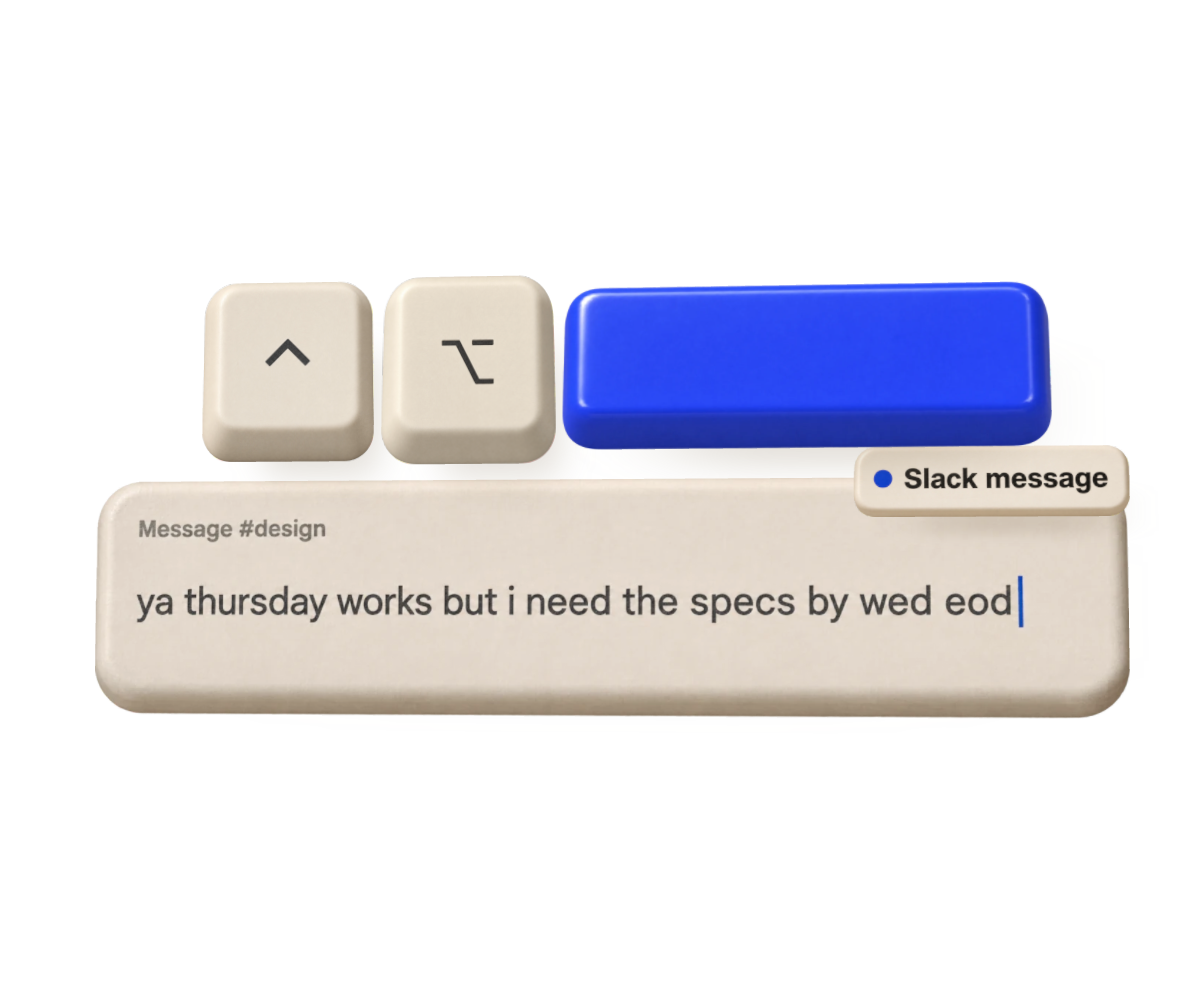
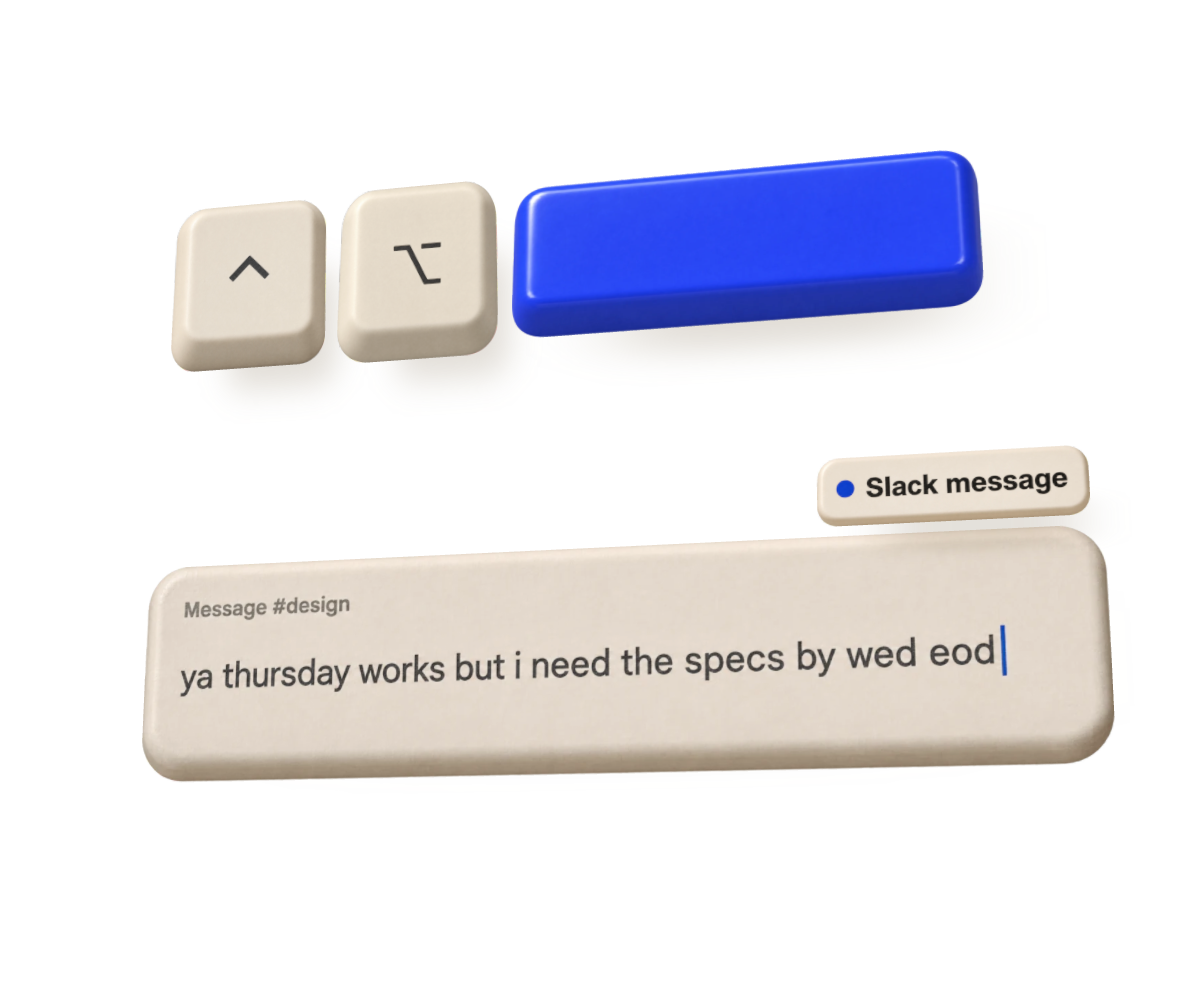
Carousel: real depth, fuller compositions, scene fixes; hero line in three lines
The piece scenes are seen from a true three-quarter view with the layers
spread further apart in depth, so the perspective and cast shadows read, and
each composition now uses the card's height. English coach: the draft sits
above the tray without covering it, and the token note leaves the slide (the
disclosure moves into the privacy small print). Local model: the back panel
is the real Engine card with content. Dictation: the cursor follows
'running' and the wave sits higher. Rendered piece URLs carry a version so
browsers fetch updated renders. The hero's small print breaks into three
lines so it stays clear of the hero image.

diff --git a/site/js/layers.js b/site/js/layers.js
@@ -7,6 +7,7 @@ import * as THREE from "https://cdn.jsdelivr.net/npm/three@0.160.0/build/three.m
 const C = { ink: "#171714", paper: "#F3EBDD", card: "#F5EEE2", strip: "#ECE4D5", tray: "#EADFCB",
   cobalt: "#3045FF", acid: "#E8F449", tomato: "#F0543D", mute: "#8A8478", red: "#B3261E", green: "#1E6B3A",
   redBg: "rgba(240,84,61,.13)", greenBg: "rgba(30,107,58,.11)" };
+const ASSET_V = "2"; // bump when the rendered pieces change, so browsers fetch the new files
 const FONT = 'Arial, "Helvetica Neue", Helvetica, sans-serif';
 const PX = 100;           // drawing units per world unit
 const SCALE = 2.6;        // canvas pixels per drawing unit
@@ -28,7 +29,7 @@ function wrap(ctx, s, x, y, maxW, { size = 22, lead = 1.4, color = C.ink, weight
     if (ctx.measureText(t).width > maxW && line) { ctx.fillText(line, x, yy); line = word; yy += size * lead; } else line = t;
   }
   if (line) ctx.fillText(line, x, yy);
-  return yy;
+  return { y: yy, x: x + ctx.measureText(line).width }; // where the text ends
 }
 // Runs of [text, kind] where kind is "", "del" (struck, red) or "ins" (green), wrapped like a paragraph.
 function diff(ctx, runs, x, y, maxW, { size = 22, lead = 1.5 } = {}) {
@@ -143,19 +144,19 @@ const SCENES = {
       draw: (c) => { text(c, "Your draft", 26, 40, { size: 16, weight: 700, color: C.mute });
         let x = 26; x += underline(c, "If you will send", x, 92, 24, C.tomato); x += text(c, " me the file ", x, 92, { size: 24 });
         x += underline(c, "until tomorrow", x, 92, 24, C.tomato); x += text(c, ", I will check it and ", x, 92, { size: 24 });
-        underline(c, "make you a feedback", x, 92, 24, C.tomato); } }), -0.3, 2.55, 0.6, "draft"));
+        underline(c, "make you a feedback", x, 92, 24, C.tomato); } }), 0.2, 3.5, 0.9, "draft"));
     root.add(place(tile(renderer, { w: 10, h: 3.9, r: 0.3, depth: 0.14, bg: C.tray,
       draw: (c, cw, ch) => { text(c, "English coach", 30, 52, { size: 24, weight: 700 }); text(c, "3 notes on your draft", 210, 52, { size: 21, color: C.mute });
         text(c, "Conditionals", 30, ch - 34, { size: 20, weight: 700 });
-        text(c, "A future condition takes the present after “if”.", 170, ch - 34, { size: 20, color: "#4A463F" }); } }), 0, -0.55, 0.3, "tray"));
+        text(c, "A future condition takes the present after “if”.", 170, ch - 34, { size: 20, color: "#4A463F" }); } }), 0, -0.85, 0, "tray"));
     const fix = (a, b, sel) => tile(renderer, { w: 1.0 + measure(a, 22, 400) + measure(b, 22, 700), h: 0.66, r: 0.18, depth: 0.1, bg: C.card,
       outline: sel ? { width: 4, color: C.ink } : { width: 2, color: "#E3DED4" },
       draw: (c, cw, ch) => { const y = ch / 2 + 8; const w1 = text(c, a, 22, y, { size: 22, color: C.red });
         c.fillStyle = C.red; c.fillRect(22, y - 7, w1, 2); text(c, "→", 34 + w1, y, { size: 22, color: C.mute });
         text(c, b, 70 + w1, y, { size: 22, weight: 700, color: C.green }); } });
-    root.add(sized(place(fix("If you will send", "If you send", true), -2.4, 0.3, 1.4, "fix1"), 1.2));
-    root.add(sized(place(fix("until tomorrow", "by tomorrow"), 2.9, -0.15, 1.0, "fix2"), 1.2));
-    root.add(sized(place(fix("make you a feedback", "give you feedback"), -0.6, -1.1, 0.85, "fix3"), 1.2));
+    root.add(sized(place(fix("If you will send", "If you send", true), -2.4, 0.05, 1.9, "fix1"), 1.2));
+    root.add(sized(place(fix("until tomorrow", "by tomorrow"), 2.9, -0.45, 1.2, "fix2"), 1.2));
+    root.add(sized(place(fix("make you a feedback", "give you feedback"), -0.6, -1.45, 1.5, "fix3"), 1.2));
     return { bounds: [10.4, 6.6] };
   },
   proofread(renderer, root) {
@@ -167,67 +168,70 @@ const SCENES = {
     const f = (a, b) => tile(renderer, { w: 1.0 + measure(a, 22, 400) + measure(b, 22, 700), h: 0.62, r: 0.18, depth: 0.1, bg: C.card,
       outline: { width: 2, color: "#E3DED4" }, draw: (c, cw, ch) => { const y = ch / 2 + 8; const w1 = text(c, a, 20, y, { size: 22, color: C.red });
         c.fillStyle = C.red; c.fillRect(20, y - 7, w1, 2); text(c, "→", 32 + w1, y, { size: 22, color: C.mute }); text(c, b, 66 + w1, y, { size: 22, weight: 700, color: C.green }); } });
-    root.add(sized(place(f("reveiw", "review"), 3.85, 1.35, 1.0, "fix1"), 1.25));
-    root.add(sized(place(f("tommorow", "tomorrow"), 4.35, 0.25, 1.45, "fix2"), 1.25));
-    root.add(sized(place(f("its", "it's"), 3.55, -0.85, 0.8, "fix3"), 1.25));
+    root.add(sized(place(f("reveiw", "review"), 3.7, 2.0, 1.0, "fix1"), 1.25));
+    root.add(sized(place(f("tommorow", "tomorrow"), 4.3, 0.45, 1.7, "fix2"), 1.25));
+    root.add(sized(place(f("its", "it's"), 3.4, -1.3, 2.3, "fix3"), 1.25));
     return { bounds: [11.8, 5.2] };
   },
   presets(renderer, root) {
     [["Slack message", C.cobalt], ["Polish email", C.ink], ["Proofread", C.green], ["Shorter", C.tomato], ["Friendlier", C.acid]].forEach(([s, d], i) => {
       const sel = i === 0; const t = chip(renderer, s, { dotColor: d, bg: sel ? C.tray : C.card, w: 2.6 });
-      root.add(place(t, -3.3 + (sel ? 0.35 : 0), 1.9 - i * 0.8, sel ? 1.4 : 0.3 + i * 0.05, "chip" + (i + 1)));
+      root.add(place(t, -3.3 + (sel ? 0.35 : 0), 2.4 - i * 0.95, sel ? 1.8 : 0.3 + i * 0.1, "chip" + (i + 1)));
     });
     root.add(place(tile(renderer, { w: 6.2, h: 1.55, r: 0.22, depth: 0.14,
       draw: (c, cw) => { text(c, "Instruction", 30, 44, { size: 18, weight: 700, color: C.mute });
-        wrap(c, "Clear and friendly. Short lines, no corporate filler.", 30, 100, cw - 60, { size: 28 }); } }), 1.4, 1.45, 0.6, "instruction"));
+        wrap(c, "Clear and friendly. Short lines, no corporate filler.", 30, 100, cw - 60, { size: 28 }); } }), 1.4, 1.9, 0.5, "instruction"));
     const rules = (title, color, items) => (c) => { dot(c, 36, 44, 8, color); text(c, title, 54, 52, { size: 24, weight: 700, color });
       items.forEach((it, i) => text(c, it, 30, 112 + i * 52, { size: 24 })); };
-    root.add(place(tile(renderer, { w: 3.0, h: 2.2, r: 0.22, depth: 0.14, draw: rules("Do", C.green, ["Lead with the ask", "Keep my emoji"]) }), -0.15, -0.5, 0.95, "do"));
-    root.add(place(tile(renderer, { w: 3.0, h: 2.2, r: 0.22, depth: 0.14, draw: rules("Avoid", C.red, ["“Just circling back”", "Exclamation marks"]) }), 3.05, -0.85, 0.45, "avoid"));
+    root.add(place(tile(renderer, { w: 3.0, h: 2.2, r: 0.22, depth: 0.14, draw: rules("Do", C.green, ["Lead with the ask", "Keep my emoji"]) }), -0.15, -0.9, 1.2, "do"));
+    root.add(place(tile(renderer, { w: 3.0, h: 2.2, r: 0.22, depth: 0.14, draw: rules("Avoid", C.red, ["“Just circling back”", "Exclamation marks"]) }), 3.05, -1.55, 1.9, "avoid"));
     return { bounds: [10.6, 5.4] };
   },
   shortcut(renderer, root) {
     root.add(place(tile(renderer, { w: 9.0, h: 1.75, r: 0.26, depth: 0.16, outline: { width: 2, color: "#E3DED4" },
       draw: (c) => { text(c, "Message #design", 30, 44, { size: 18, weight: 700, color: C.mute });
         const w = text(c, "ya thursday works but i need the specs by wed eod", 30, 112, { size: 30 });
-        c.fillStyle = C.cobalt; c.fillRect(36 + w, 84, 3, 36); } }), 0, -1.0, 0, "field"));
+        c.fillStyle = C.cobalt; c.fillRect(36 + w, 84, 3, 36); } }), 0, -1.55, 0, "field"));
     const key = (s, w, bg = C.card) => tile(renderer, { w, h: 1.15, r: 0.22, depth: 0.45, bg,
       draw: (c, cw, ch) => text(c, s, cw / 2, ch / 2 + 15, { size: 44, align: "center" }) });
-    root.add(sized(place(key("⌃", 1.15), -2.45, 0.85, 1.3, "key-control"), 1.25));
-    root.add(sized(place(key("⌥", 1.15), -0.95, 0.85, 1.3, "key-option"), 1.25));
-    root.add(sized(place(key("", 3.4, C.cobalt), 1.78, 0.85, 1.3, "key-space"), 1.15));
-    root.add(place(chip(renderer, "Slack message"), 3.3, -0.05, 0.7, "chip"));
+    root.add(sized(place(key("⌃", 1.15), -2.6, 1.55, 2.1, "key-control"), 1.25));
+    root.add(sized(place(key("⌥", 1.15), -1.05, 1.55, 2.1, "key-option"), 1.25));
+    root.add(sized(place(key("", 3.4, C.cobalt), 1.75, 1.55, 2.1, "key-space"), 1.15));
+    root.add(place(chip(renderer, "Slack message"), 3.3, -0.35, 1.1, "chip"));
     return { bounds: [10, 5.4] };
   },
   tone(renderer, root) {
     root.add(place(tile(renderer, { w: 6.0, h: 1.25, r: 0.22, depth: 0.12, bg: C.strip,
-      draw: (c) => { text(c, "Replying to", 28, 42, { size: 17, weight: 700, color: C.mute }); text(c, "Any update on the launch?", 28, 92, { size: 26 }); } }), -1.3, 2.0, 0, "reply"));
+      draw: (c) => { text(c, "Replying to", 28, 42, { size: 17, weight: 700, color: C.mute }); text(c, "Any update on the launch?", 28, 92, { size: 26 }); } }), -1.3, 2.1, 0, "reply"));
     root.add(place(tile(renderer, { w: 7.4, h: 2.3, r: 0.24, depth: 0.16, outline: { width: 2, color: "#E3DED4" },
-      draw: (c, cw) => { label(c, "Take 1", 30, 50); wrap(c, "We're a bit behind, sorry. The new date is Friday, and I'll share a short update tomorrow.", 30, 110, cw - 60, { size: 27 }); } }), 0, 0.15, 0.45, "take"));
+      draw: (c, cw) => { label(c, "Take 1", 30, 50); wrap(c, "We're a bit behind, sorry. The new date is Friday, and I'll share a short update tomorrow.", 30, 110, cw - 60, { size: 27 }); } }), 0, 0.15, 1.0, "take"));
     root.add(place(tile(renderer, { w: 4.4, h: 0.74, r: 0.37, depth: 0.14, bg: C.tray,
-      draw: (c, cw, ch) => { dot(c, 34, ch / 2, 9, C.green); text(c, "May read as warm and polite", 56, ch / 2 + 8, { size: 23, weight: 700 }); } }), 1.7, -1.45, 1.15, "note"));
+      draw: (c, cw, ch) => { dot(c, 34, ch / 2, 9, C.green); text(c, "May read as warm and polite", 56, ch / 2 + 8, { size: 23, weight: 700 }); } }), 1.7, -1.55, 2.1, "note"));
     return { bounds: [9.6, 5.4] };
   },
   languages(renderer, root) {
     [["Deutsch", "Donnerstag passt mir. Die Specs brauche ich bis Mittwoch."], ["Español", "El jueves me viene bien. Necesito las especificaciones para el miércoles."],
      ["English", "Thursday works for me. I need the specs by Wednesday."]].forEach(([lang, line], i) => {
       root.add(place(tile(renderer, { w: 7.0, h: 1.45, r: 0.24, depth: 0.14, outline: i === 2 ? { width: 4, color: C.ink } : { width: 2, color: "#E3DED4" },
-        draw: (c, cw) => { text(c, lang, 30, 44, { size: 18, weight: 700, color: C.mute }); wrap(c, line, 30, 92, cw - 60, { size: 25 }); } }), -0.9 + i * 0.9, 1.5 - i * 1.5, 0.2 + i * 0.45, ["de", "es", "en"][i]));
+        draw: (c, cw) => { text(c, lang, 30, 44, { size: 18, weight: 700, color: C.mute }); wrap(c, line, 30, 92, cw - 60, { size: 25 }); } }), -0.9 + i * 0.9, 1.5 - i * 1.5, 0.2 + i * 0.85, ["de", "es", "en"][i]));
     });
     return { bounds: [9.4, 5.6] };
   },
   local(renderer, root) {
-    root.add(place(tile(renderer, { w: 8.8, h: 4.6, r: 0.3, depth: 0.16,
-      draw: (c) => { text(c, "Model", 34, 56, { size: 18, weight: 700, color: C.mute }); } }), 0, 0, 0, "panel"));
+    root.add(place(tile(renderer, { w: 8.2, h: 5.2, r: 0.3, depth: 0.16,
+      draw: (c, cw) => { text(c, "Engine", 34, 54, { size: 18, weight: 700, color: C.mute });
+        text(c, "Local model", 34, 118, { size: 34, weight: 700 });
+        text(c, "Ollama · found on this Mac", 34, 166, { size: 22, color: C.mute });
+        text(c, "Model", 34, 262, { size: 18, weight: 700, color: C.mute }); } }), 0.4, 0.3, 0, "panel"));
     root.add(place(tile(renderer, { w: 5.2, h: 2.9, r: 0.24, depth: 0.1, outline: { width: 2, color: "#E3DED4" },
       draw: (c, cw) => { const row = (y, a, b, on) => { if (on) { c.fillStyle = C.tray; roundRect(c, 12, y - 40, cw - 24, 60, 12); c.fill(); }
           text(c, a, 36, y, { size: 24, weight: on ? 700 : 400 }); text(c, b, cw - 70, y, { size: 20, color: C.mute, align: "right" });
           if (on) text(c, "✓", cw - 40, y, { size: 24, weight: 700, color: C.cobalt, align: "center" }); };
-        row(66, "llama3.2", "Ollama", true); row(146, "qwen3:8b", "Ollama"); row(226, "gemma-3-12b", "LM Studio"); } }), -1.2, -0.95, 0.8, "menu"));
+        row(66, "llama3.2", "Ollama", true); row(146, "qwen3:8b", "Ollama"); row(226, "gemma-3-12b", "LM Studio"); } }), -1.3, -1.35, 1.3, "menu"));
     const badge = tile(renderer, { w: 2.5, h: 0.78, r: 0.39, depth: 0.14, bg: C.acid,
       draw: (c, cw, ch) => text(c, "On this Mac", cw / 2, ch / 2 + 8, { size: 23, weight: 700, align: "center" }) });
-    root.add(sized(place(badge, 3.15, 1.75, 1.3, "badge"), 1.2));
-    return { bounds: [9.4, 5.4] };
+    root.add(sized(place(badge, 3.3, 2.35, 2.1, "badge"), 1.2));
+    return { bounds: [9.4, 6.4] };
   },
   instant(renderer, root) {
     root.add(place(tile(renderer, { w: 9.6, h: 2.2, r: 0.3, depth: 0.14, outline: { width: 2, color: "#E3DED4" },
@@ -235,21 +239,21 @@ const SCENES = {
         wrap(c, "Running about 5 minutes late, sorry! Start without me and I'll catch up.", 30, 100, cw - 60, { size: 26 }); } }), 0, -0.4, 0, "field"));
     const toast = tile(renderer, { w: 3.6, h: 0.86, r: 0.43, depth: 0.14, bg: C.ink,
       draw: (c, cw, ch) => { dot(c, 40, ch / 2, 13, C.acid); text(c, "Pasted · ⌘Z to undo", 66, ch / 2 + 8, { size: 23, weight: 700, color: C.paper }); } });
-    toast.rotation.z = -0.03; root.add(place(toast, -1.9, 0.95, 1.0, "toast"));
+    toast.rotation.z = -0.03; root.add(place(toast, -1.9, 1.45, 1.6, "toast"));
     const ret = tile(renderer, { w: 1.3, h: 1.3, r: 0.36, depth: 0.36, bg: "#F2D23C",
       draw: (c, cw, ch) => text(c, "↵", cw / 2, ch / 2 + 16, { size: 48, weight: 700, align: "center" }) });
-    root.add(sized(place(ret, 3.95, -1.3, 1.4, "return"), 1.35));
+    root.add(sized(place(ret, 3.95, -1.7, 2.3, "return"), 1.35));
     return { bounds: [10, 4.6] };
   },
   dictation(renderer, root) {
     root.add(place(tile(renderer, { w: 8.8, h: 3.6, r: 0.3, depth: 0.16,
-      draw: (c, cw) => { wrap(c, "can we push the call to four, the build is still running", 34, 66, cw - 70, { size: 27 });
-        c.fillStyle = C.cobalt; c.fillRect(34 + 0, 140, 3, 34); } }), 0, 0, 0, "card"));
-    root.add(place(pill(renderer, "● Dictating", { w: 2.4, h: 0.7, bg: C.tray, color: C.ink }), 2.95, -1.45, 0.9, "pill"));
+      draw: (c, cw) => { const end = wrap(c, "can we push the call to four, the build is still running", 34, 66, cw - 70, { size: 27 });
+        c.fillStyle = C.cobalt; c.fillRect(end.x + 6, end.y - 26, 3, 34); } }), 0, 0.5, 0, "card"));
+    root.add(place(pill(renderer, "● Dictating", { w: 2.4, h: 0.7, bg: C.tray, color: C.ink }), 3.0, -1.95, 1.1, "pill"));
     const bars = [0.35, 0.7, 1.1, 0.8, 1.35, 0.6, 0.95, 0.45, 0.75, 0.3];
     const wave = new THREE.Group(); wave.userData = { w: 3.1, h: 1.4 }; // the waveform is one piece
     bars.forEach((hgt, i) => { const b = tile(renderer, { w: 0.2, h: hgt, r: 0.1, depth: 0.12, bg: C.cobalt }); b.position.set(-1.44 + i * 0.32, 0, 0); wave.add(b); });
-    root.add(sized(place(wave, -1.0, -1.5, 1.1, "wave"), 1.5));
+    root.add(sized(place(wave, -1.2, -0.75, 1.9, "wave"), 1.5));
     return { bounds: [9.4, 4.4] };
   },
 };
@@ -322,15 +326,15 @@ export function mount(el, name, { interactive = false, exportMode = false, part 
   }
   // Rendered pieces are seen almost straight on, each scene turned a touch its own way; carousel frames use their
   // per-feature angle; otherwise the near-front three-quarter view of the stills.
-  const turn = name === "takes" ? 0 : Math.sign(SHOTS[name]?.[1] || 0) * 0.1;
-  const base = part ? { x: -0.12, y: 0 } : sprites ? { x: -0.05, y: turn } : shot && SHOTS[name] ? { x: SHOTS[name][0], y: SHOTS[name][1] } : { x: -0.2, y: 0.24 };
+  const turn = name === "takes" ? 0 : Math.sign(SHOTS[name]?.[1] || 0) * 0.26;
+  const base = part ? { x: -0.12, y: 0 } : sprites ? { x: name === "takes" ? -0.05 : -0.2, y: turn } : shot && SHOTS[name] ? { x: SHOTS[name][0], y: SHOTS[name][1] } : { x: -0.2, y: 0.24 };
   const camera = new THREE.PerspectiveCamera(26, 1, 0.1, 100);
   root.rotation.set(base.x, base.y, 0); floor.rotation.copy(root.rotation);
   function fit() {
     const w = el.clientWidth || 800, h = el.clientHeight || 520; renderer.setSize(w, h, false);
     canvas.style.width = "100%"; canvas.style.height = "100%";
     camera.aspect = w / h; const t = Math.tan(THREE.MathUtils.degToRad(camera.fov / 2));
-    const d = Math.max(bounds[1] / 2 / t, bounds[0] / 2 / (t * camera.aspect)) * (exportMode && !sprites ? (part ? 1.04 : 1.22) : name === "takes" ? 1.12 : 1.04);
+    const d = Math.max(bounds[1] / 2 / t, bounds[0] / 2 / (t * camera.aspect)) * (exportMode && !sprites ? (part ? 1.04 : 1.22) : name === "takes" ? 1.12 : 1.1);
     camera.position.set(0, 0, d + 1); camera.lookAt(0, 0, 0); camera.clearViewOffset(); camera.zoom = 1;
     camera.updateProjectionMatrix();
   }
@@ -362,7 +366,7 @@ export function mount(el, name, { interactive = false, exportMode = false, part 
   if (sprites) {
     const names = root.children.filter((o) => o.name && (o.visible || o.name === "ring")).map((o) => o.name);
     const loader = new THREE.TextureLoader();
-    Promise.all(names.map((n) => loader.loadAsync(`${sprites}/${n}.webp`).then((tex) => [n, tex]))).then((loaded) => {
+    Promise.all(names.map((n) => loader.loadAsync(`${sprites}/${n}.webp?v=${ASSET_V}`).then((tex) => [n, tex]))).then((loaded) => {
       for (const [n, tex] of loaded) {
         tex.colorSpace = THREE.SRGBColorSpace; tex.anisotropy = renderer.capabilities.getMaxAnisotropy();
         const obj = root.getObjectByName(n), { w } = obj.userData, aspect = tex.image.width / tex.image.height;

diff --git a/site/index.html b/site/index.html
@@ -132,7 +132,6 @@ section h2 { font-size: clamp(52px, 6.4vw, 84px); }
 .slide-copy .label { color: var(--ink); margin-bottom: 14px; }
 .slide-copy h3 { font: 700 clamp(30px, 3.4vw, 44px)/1 var(--display); margin: 0 0 14px; }
 .slide-copy p { font-size: clamp(16px, 1.5vw, 19px); line-height: 1.45; margin: 0; }
-.slide-copy .slide-note { font-size: 14px; line-height: 1.45; color: var(--muted); margin-top: 14px; }
 .dots { display: flex; gap: 8px; margin-top: 22px; }
 .dots button { width: 9px; height: 9px; padding: 0; border-radius: 50%; border: 0; background: var(--ink); opacity: .22; cursor: pointer; }
 .dots button[aria-current="true"] { opacity: 1; }
@@ -327,7 +326,7 @@ fill="currentColor" stroke="none">
           <a class="text-link" href="https://github.com/bar-amir/takes" data-goatcounter-click="github-hero" data-goatcounter-title="GitHub (hero)">Free and open source</a>
         </div>
         <div class="label keys">Control + Option + Space</div>
-        <p class="small">Free. No account needed to download. macOS 14 or later.</p>
+        <p class="small">Free.<br>No account needed to download.<br>macOS 14 or later.</p>
       </div>
     </div>
   </section>
@@ -388,7 +387,7 @@ fill="currentColor" stroke="none">
         </li>
         <li class="slide" id="coach" aria-label="4 of 9: Write it better next time.">
           <div class="slide-stage" data-scene="coach" data-sprites="img/slides/parts/coach"><img src="img/slides/stills/coach.webp" width="1200" height="1000" alt="A draft with three flagged phrases and the English coach below it, its fixes lifted out: If you will send to If you send, until tomorrow to by tomorrow, make you a feedback to give you feedback" loading="lazy"></div>
-          <div class="slide-copy"><div class="label">English Coach</div><h3>Write it better next time.</h3><p>Turn on the English coach and it spots the mistakes your takes fix, notices the ones you repeat, and teaches them back with your own sentences.</p><p class="slide-note">Off until you turn it on. About 1,000 extra tokens per English draft; lessons are made on your Mac at no cost. Only the phrase around each mistake is kept, on your Mac, for 30 days.</p></div>
+          <div class="slide-copy"><div class="label">English Coach</div><h3>Write it better next time.</h3><p>Turn on the English coach and it spots the mistakes your takes fix, notices the ones you repeat, and teaches them back with your own sentences.</p></div>
         </li>
         <li class="slide" id="slide-local" aria-label="5 of 9: A model on your Mac">
           <div class="slide-stage" data-scene="local" data-sprites="img/slides/parts/local"><img src="img/slides/stills/local.webp" width="1200" height="1000" alt="The model menu with llama3.2 from Ollama picked, and an On this Mac badge" loading="lazy"></div>
@@ -422,7 +421,7 @@ fill="currentColor" stroke="none">
         <div class="truth-row"><div class="label">Your connection</div><p>Drafts, instructions and voice examples go to Anthropic through your Claude connection, to OpenAI through your ChatGPT plan, to the provider whose key you added, or nowhere, with a model on your Mac.</p></div>
         <div class="truth-row"><div class="label">Your decision</div><p>Takes pastes the version you choose into the original field. You decide when to send.</p></div>
       </div>
-      <p class="small">Only the focused field or selection is read, and only when you press the shortcut. The app has no developer-run server and no analytics. This website counts visits with GoatCounter, without cookies. <a href="https://github.com/bar-amir/takes/blob/main/PRIVACY.md">Read the privacy notice</a>.</p>
+      <p class="small">Only the focused field or selection is read, and only when you press the shortcut. The app has no developer-run server and no analytics. The English coach is off until you turn it on; it adds about 1,000 tokens per English draft, and keeps only the phrase around each mistake, on your Mac, for 30 days. This website counts visits with GoatCounter, without cookies. <a href="https://github.com/bar-amir/takes/blob/main/PRIVACY.md">Read the privacy notice</a>.</p>
     </div>
   </section>
 
@@ -478,7 +477,7 @@ fill="currentColor" stroke="none">
     // Each slide's graphic is a live WebGL scene of separately rendered pieces; only the slides on screen keep one.
     const live = new Map(); let lib;
     const wake = async (slide) => { const st = slide.querySelector(".slide-stage"); if (!st || live.has(st)) return; live.set(st, null);
-      try { lib = lib || await import("./js/layers.js?v=7");
+      try { lib = lib || await import("./js/layers.js?v=9");
         if (!live.has(st)) return;
         live.set(st, lib.mount(st, st.dataset.scene, { interactive: true, sprites: st.dataset.sprites, onReady: () => st.classList.add("live") }));
       } catch (err) { console.warn("layers: slide failed", st.dataset.scene, err); live.delete(st); } };
@@ -494,7 +493,7 @@ fill="currentColor" stroke="none">
   if (el && "IntersectionObserver" in window) {
     const io = new IntersectionObserver(async ([e]) => {
       if (!e.isIntersecting) return; io.disconnect();
-      try { const { mount } = await import("./js/layers.js?v=7"); mount(el, el.dataset.scene, { interactive: true, sprites: el.dataset.sprites }); el.classList.add("live"); }
+      try { const { mount } = await import("./js/layers.js?v=9"); mount(el, el.dataset.scene, { interactive: true, sprites: el.dataset.sprites }); el.classList.add("live"); }
       catch { /* no WebGL or offline: keep the still */ }
     }, { rootMargin: "300px" });
     io.observe(el);
